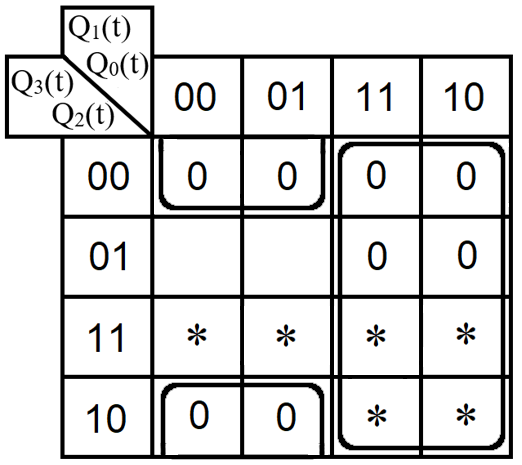
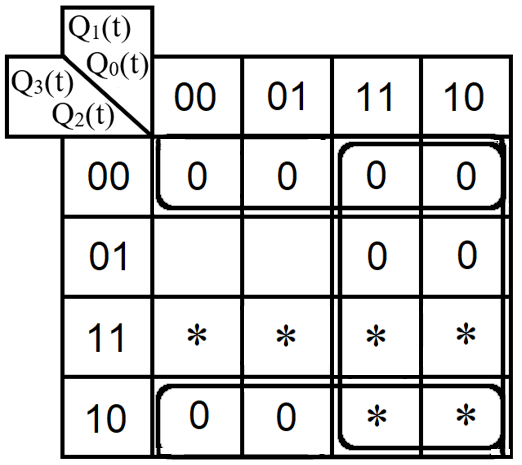
Fix q3 mknf map

Changed region(s): [[0.2759, 0.8129, 0.9808, 0.9935], [0.2759, 0.271, 0.9808, 0.4516]]

diff --git a/informatics/practices/pr11/main.tex b/informatics/practices/pr11/main.tex
@@ -232,7 +232,7 @@
 
 Из \cref{fig:map-mdnf-q3} видно, что МДНФ $Q_3(t + 1)$ будет описана при помощи 2 переменных либо их отрицаний.
 
-Теперь проделаем аналогичную операцию для МКНФ этой же функции. Из \cref{fig:map-mknf-q3} видно, что МКНФ $Q_3(t + 1)$ будет описана при помощи $1 + 2 = 3$ переменных либо их отрицаний.
+Теперь проделаем аналогичную операцию для МКНФ этой же функции. Из \cref{fig:map-mknf-q3} видно, что МКНФ $Q_3(t + 1)$ будет описана при помощи $1 + 1 = 2$ переменных либо их отрицаний.
 
 \begin{figure}[H]
 	\caption{Карта Карно для МКНФ функции $Q_3(t + 1)$}
@@ -311,7 +311,13 @@
 \end{figure}
 
 \chapter{Выводы}
-В ходе работы был разработан счетчик с параллельным переносом на D-триггерах двумя способами. Работа схем была протестирована, чтобы убедиться в их правильности.
+В ходе работы был разработан счетчик с параллельным переносом на D-триггерах двумя способами:
+
+-- с оптимальной схемой управления, выполненной на логических элементах общего базиса;
+
+-- со схемой управления, реализованной на преобразователе кодов (быстрая реализация, но не оптимальная схема).
+
+Работа схем была протестирована, чтобы убедиться в ее правильности.
 
 \chapter{Информационный источник}
 \textbf{Смирнов, С. С.} Информатика : Методические указания по выполнению практических работ / С. С. Смирнов, Д. А. Карпов. -- Москва : МИРЭА -- Российский технологический университет, 2020. -- 102 с.
